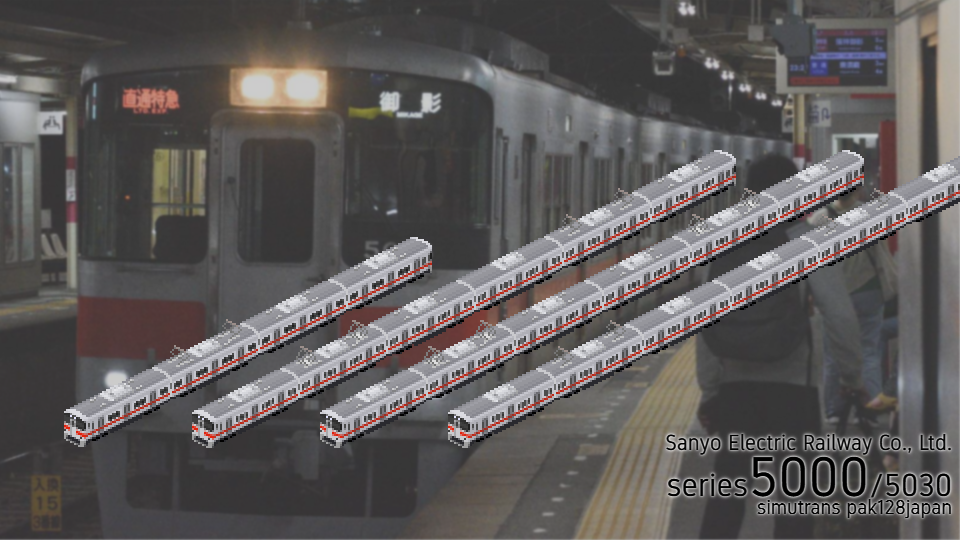
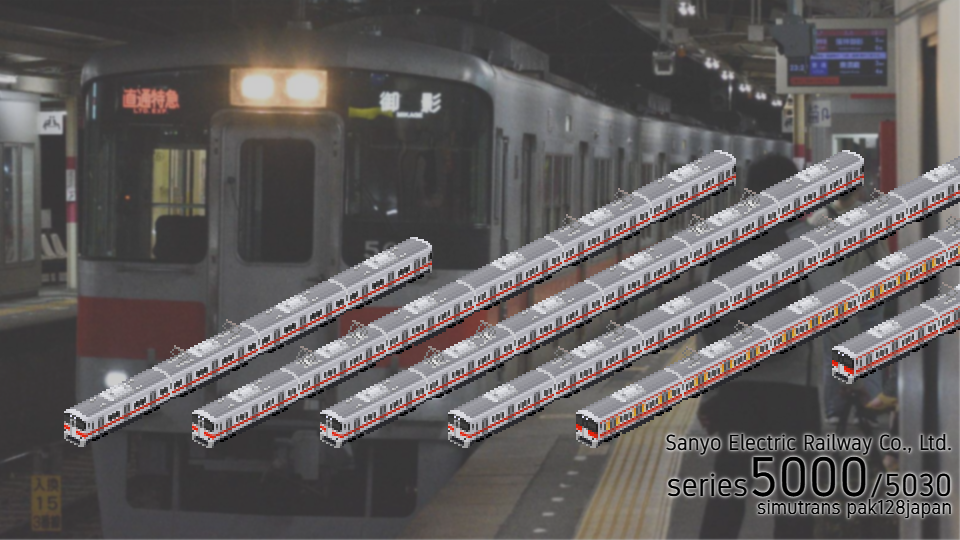
v3.0.0用ReadMe

Changed region(s): [[0.5938, 0.4148, 1.0, 0.8296]]

diff --git a/ReadMe.md b/ReadMe.md
@@ -56,6 +56,9 @@ Gal_sanyo3000_[形式名]\_[車体]\_[塗装]_(\_[クーラー種類])(\_[リニ
 ## 5000/5030系
 ![サムネ5000](5000/サムネ5000.png)
 
-山陽5000/5030系のアドオンです。未更新のみ先行リリースということで
+山陽5000/5030系のアドオンです。
+
+v3.0.0で更新車を追加
 
 3連(5000のみ)・4連・6連が組めるはずです。2次車の中間車は3次車で代用してください。
+(リニューアルは6連のみ)
